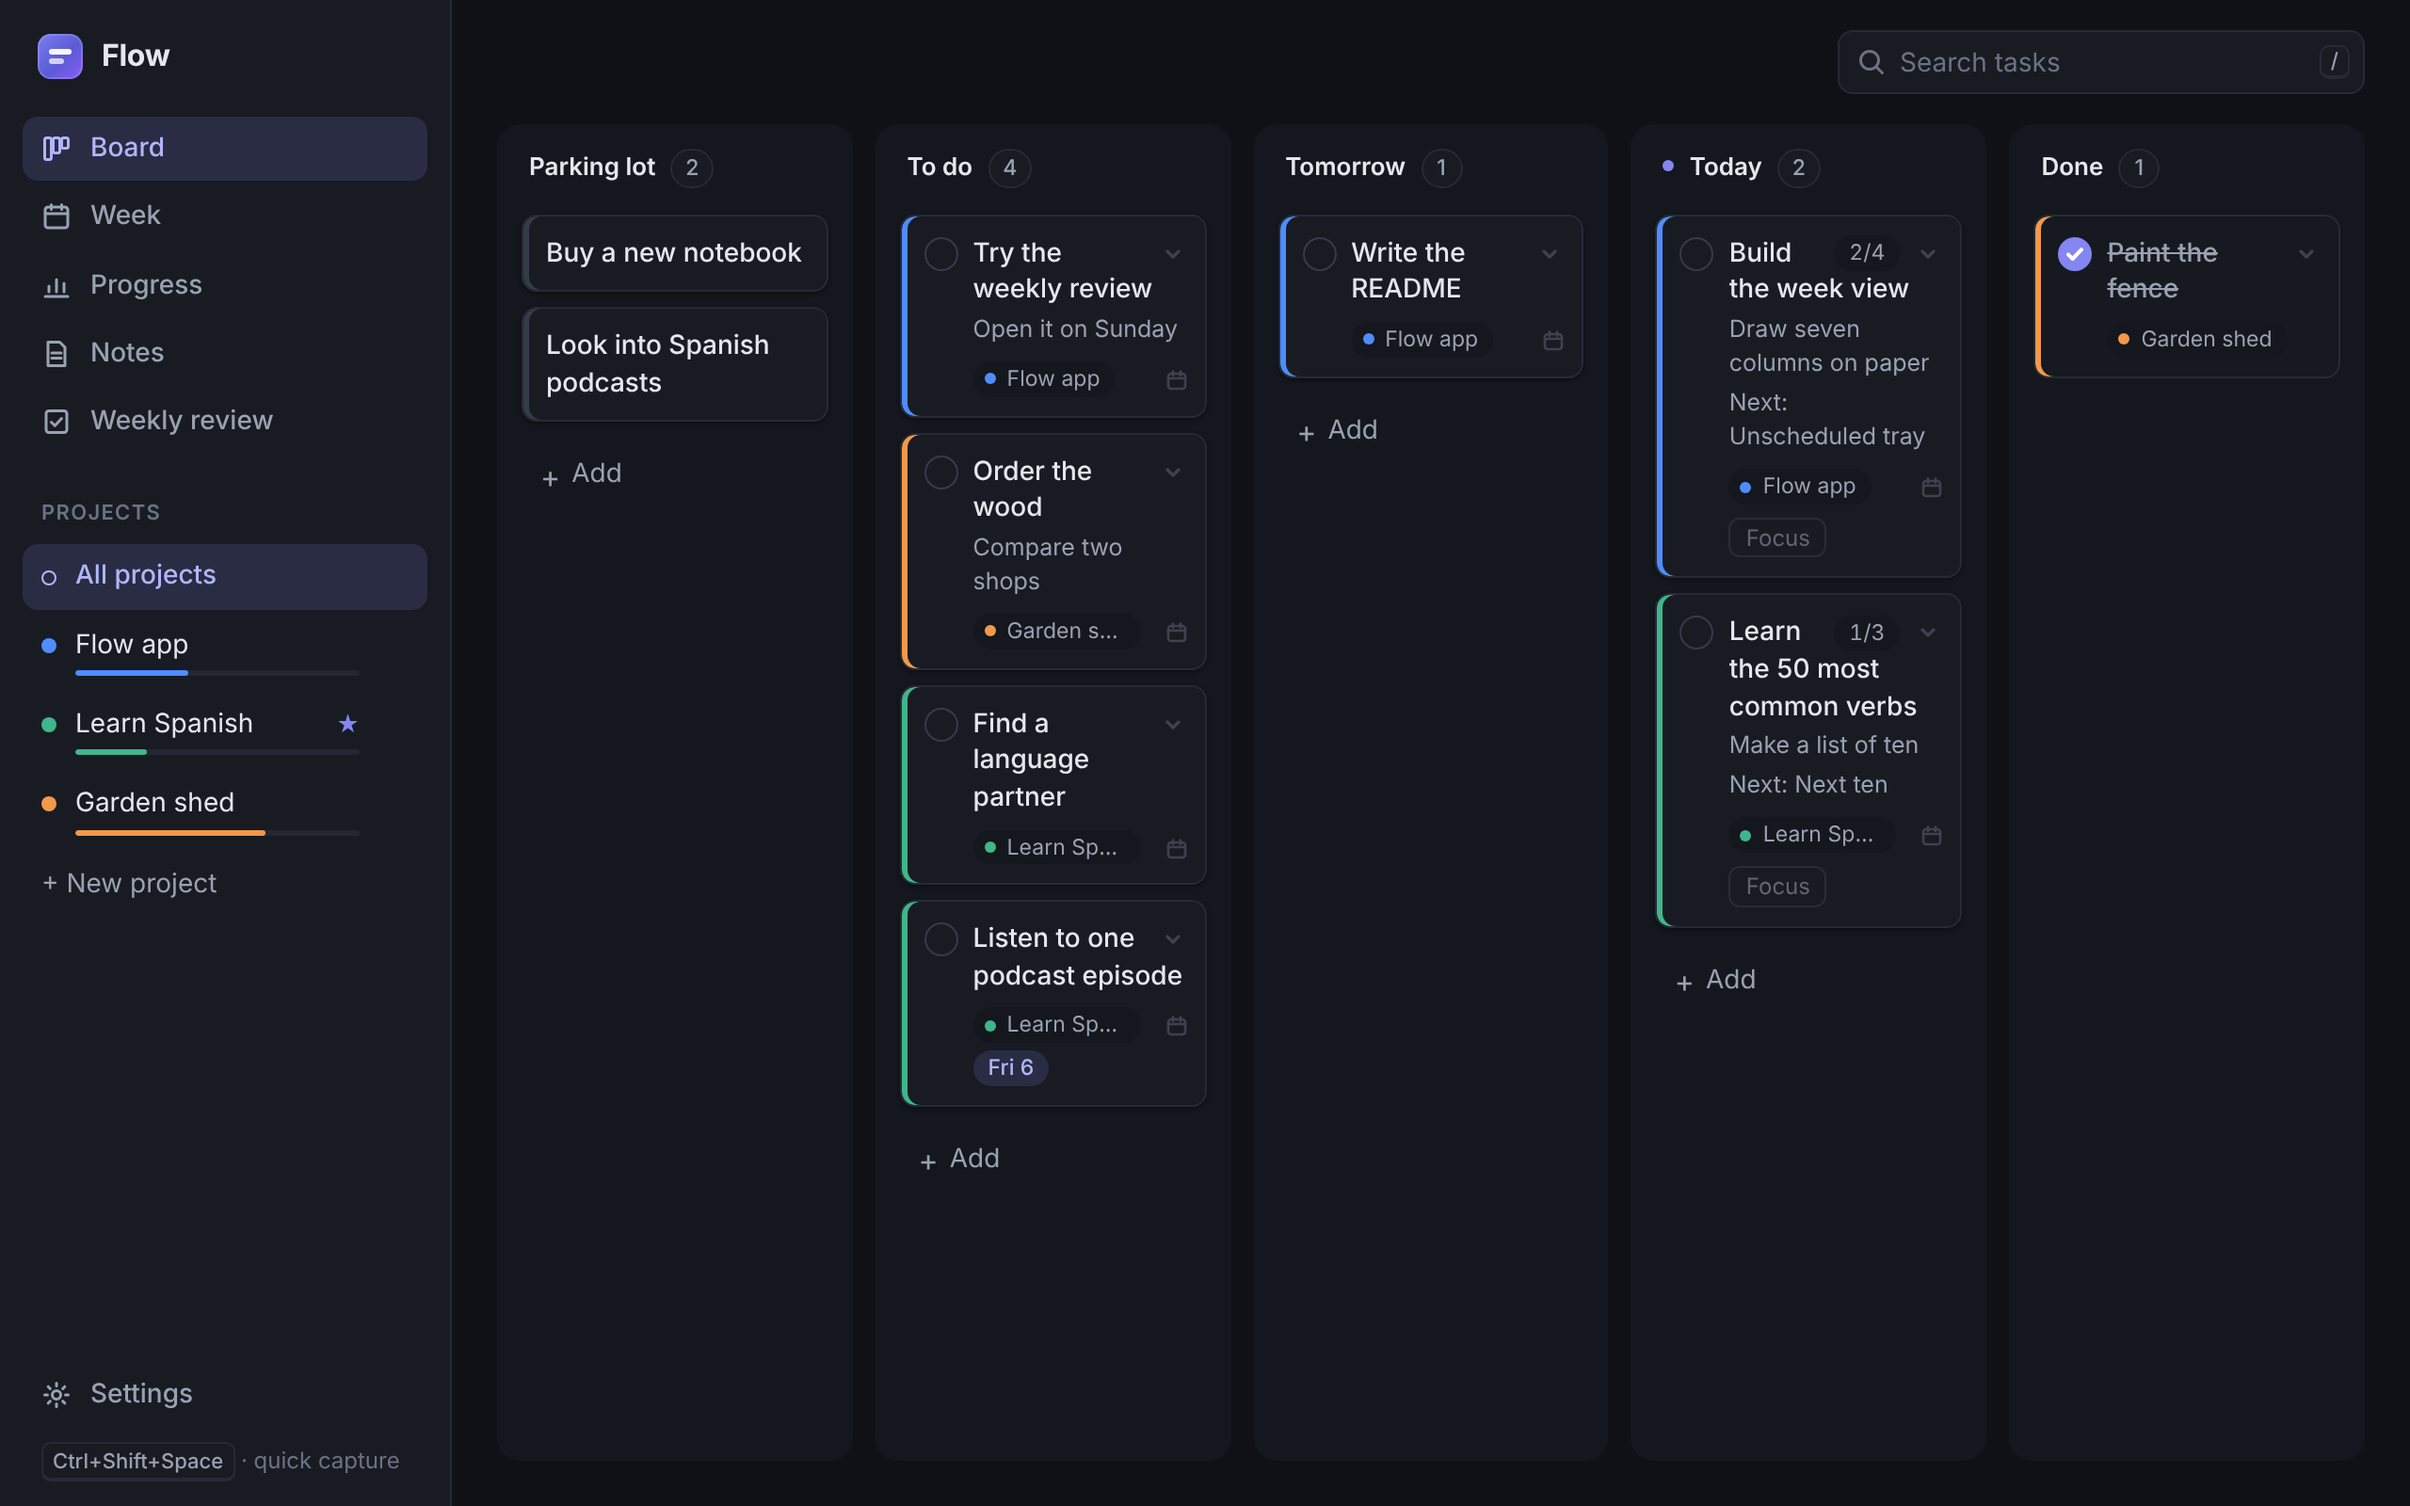
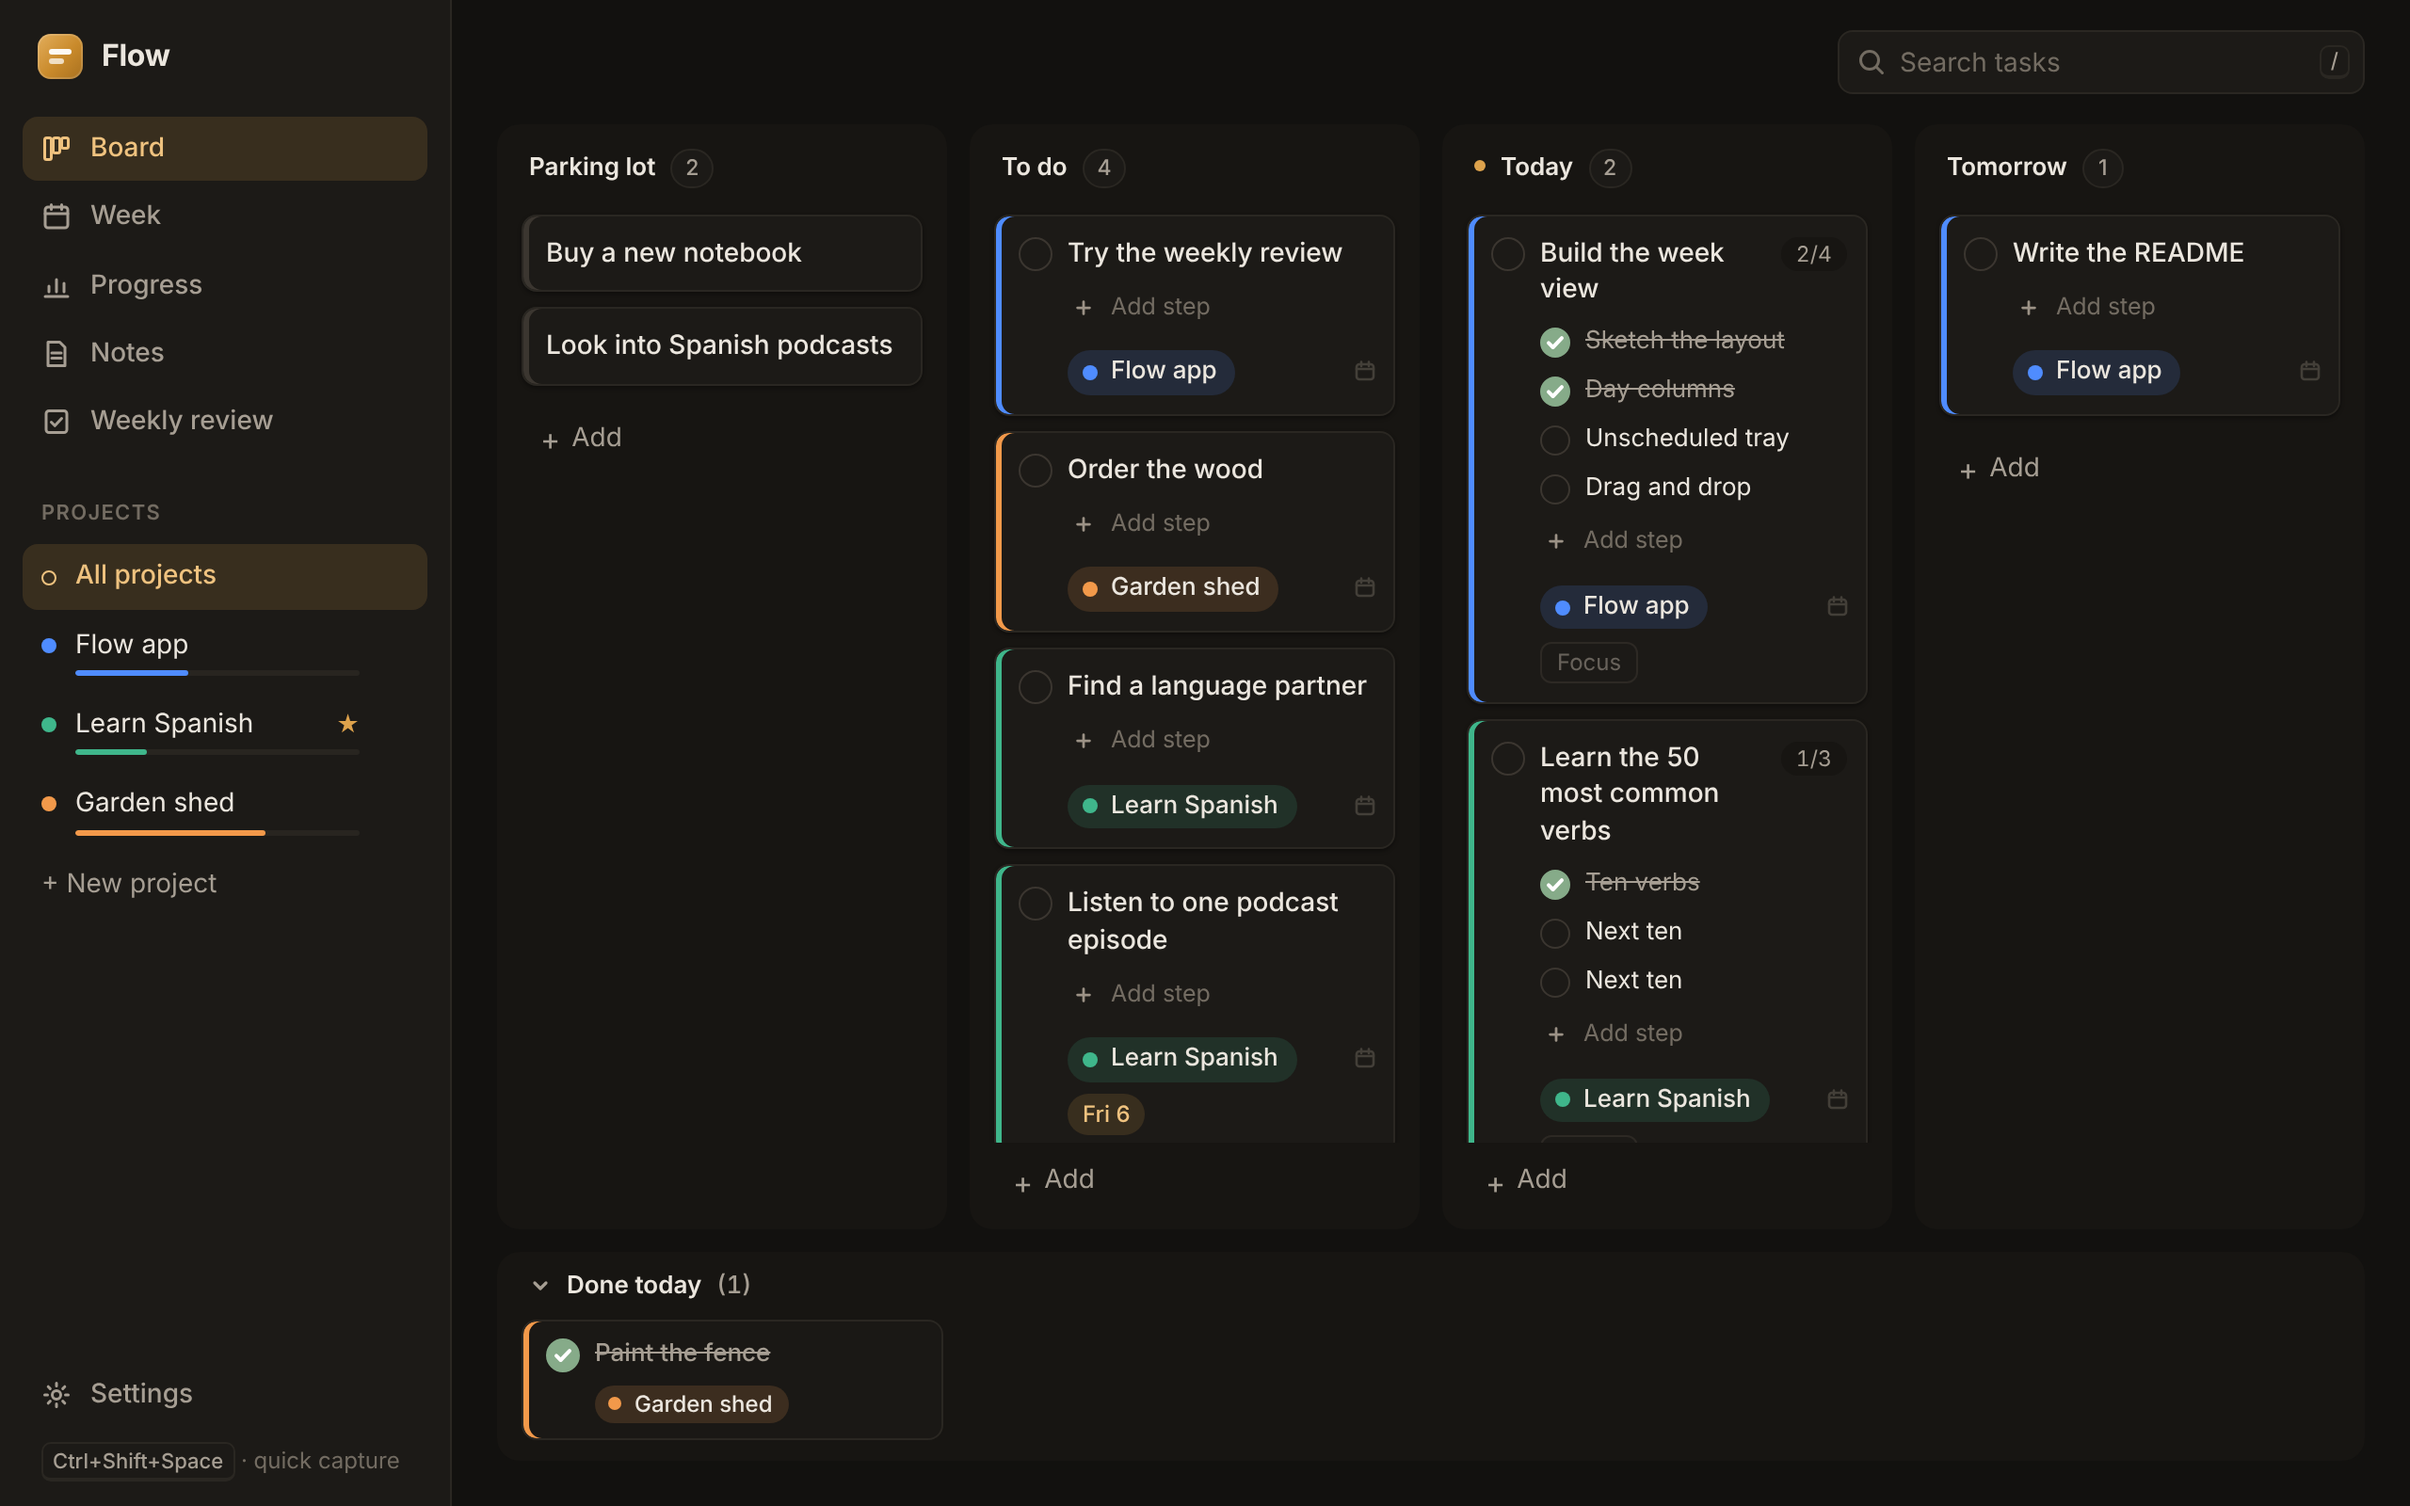
Flow v0.2.6: version, smoke test, screenshots and docs
Claude-Session: https://claude.ai/code/session_01Voacjw55tMHdZutBvqAuuX

diff --git a/CLAUDE.md b/CLAUDE.md
@@ -1,6 +1,7 @@
 # Flow
 
-Tauri 2 + React + TypeScript desktop planner. One board: Parking lot / To do / Tomorrow / Today / Done.
+Tauri 2 + React + TypeScript desktop planner. One board: Parking lot | To do | Today | Tomorrow columns,
+with Done as a collapsible bar underneath (v0.2.6).
 Data is Markdown files with YAML frontmatter in a user-chosen folder. See
 `docs/superpowers/specs/2026-11-03-flow-design.md` for the design.
 
@@ -12,7 +13,8 @@ Data is Markdown files with YAML frontmatter in a user-chosen folder. See
 - `npm run app:dev` runs the desktop app via Tauri.
 - `node scripts/smoke.mjs` is a Playwright smoke test with real pointer drag-and-drop
   across Board, Week, Progress, Notes, Review, Settings (needs `npm run dev` running; writes
-  `docs/screenshot*.png`: board, dark, progress, week). jsdom cannot drive dnd-kit.
+  `docs/screenshot*.png`: board, dark, progress, week). jsdom cannot drive dnd-kit. Board cards are
+  dragged by their title row (the always-open checklist keeps its own pointer events).
 
 ## Structure
 
@@ -31,7 +33,8 @@ Data is Markdown files with YAML frontmatter in a user-chosen folder. See
   (`prompts.ts`) and the dev-only canned client (`fake.ts`).
 - `src/ui/` React components (Board, Column, Card, quick capture, folder setup) and `useFlow`.
   Board.tsx is the shell; views: `BoardView`, `WeekView`, `ProgressView`, `NotesView`,
-  `WeeklyReview`, `SettingsPanel`; plus `Sidebar`, `ProjectHeader`, `NotesPanel`, `PlanMenu` (calendar
+  `WeeklyReview`, `SettingsPanel`; plus `DoneBar` (Done under the columns), `useStoredFlag` (boolean
+  local settings), `Sidebar`, `ProjectHeader`, `NotesPanel`, `PlanMenu` (calendar
   menu on To do/Tomorrow/Today cards: scheduleTask), `FocusBar` +
   `useFocus`, `SearchBox`, `AiPanel`; tokens and themes in `theme.css`, styles in `board.css`.
 - `src/shortcut.ts` idempotent global-shortcut registration (injected plugin functions).
@@ -40,6 +43,13 @@ Data is Markdown files with YAML frontmatter in a user-chosen folder. See
 
 ## Rules
 
+- v0.2.6 board: `COLUMNS` order is inbox, todo, today, tomorrow, done; `done` renders as the
+  `DoneBar` (region "Done", heading/toggle "Done today (N)", aria-expanded), a drop target open or
+  closed; open shows compact done cards (checkbox, title, pill, tag; no checklist).
+- v0.2.6 cards: no chevron, no "Next:" line, no first-step line; a task card always shows its
+  checklist between the title row (title + `n/m` pill) and the footer (project tag tinted ~15% with
+  a dot, day chip, calendar). Light theme: warm paper/linen, amber accent (`--accent`, darker
+  `--accent-strong` for filled buttons, `--accent-text`), sage `--success*` for done/checks/heatmap.
 - Never write a file that failed to parse; it is skipped and recorded in `Flow/flow-issues.log`.
 - No warnings, nags or pop-ups in the UI; problems go only to the issue log. One owner exception:
   deleting a project asks first in an in-app dialog (`DeleteDialog` in Sidebar.tsx: alertdialog,
@@ -50,6 +60,9 @@ Data is Markdown files with YAML frontmatter in a user-chosen folder. See
 - Browser dev (`npm run dev`) uses `MemoryFileStore` seeded with example data; nothing persists.
 - Day `focus` list: entries `ref, title, project, minutes`; omitted when empty; sessions under
   1 minute are not logged; each session is logged once. Timer state is in memory only.
+- `first_step` is kept in files but never shown on cards; the edit form offers "First step" only for
+  a task that already has one (so it can be cleared). Claude's suggested first step is added as the
+  new task's first checklist step, not as `first_step`.
 - Task `steps: [{text, done}]` and `scheduled: YYYY-MM-DD` are omitted when empty; unknown fields
   on steps are preserved. Ticking the last step never completes the task.
 - Step reorder: only the step's grip handle starts a drag, in a nested DndContext inside the
@@ -90,5 +103,8 @@ Data is Markdown files with YAML frontmatter in a user-chosen folder. See
   `registerShortcut` (`src/shortcut.ts`): unregister first, then register, serialized. Failures go
   only to the issue log; Settings shows one muted status line (none in the browser).
 - `hiddenColumns` (array of ColumnId) in local app settings hides board columns; never all five,
-  never in the Flow folder. Hidden columns' data and promotion are unchanged.
+  never in the Flow folder. Hidden columns' data and promotion are unchanged. Hiding `done` hides
+  the Done bar.
+- `doneBarOpen` and `weekTrayOpen` (booleans, default true) in local app settings remember whether
+  the Done bar and the Week view's Unscheduled drawer (full width, above the days) are open.
 - Browser seed data in `src/main.tsx` is generated relative to today's local date.

diff --git a/README.md b/README.md
@@ -9,10 +9,11 @@ of the Claude buttons (see below).
 
 ## What you can do
 
-- **Board.** Five columns: **Parking lot** (loose thoughts), **To do**, **Tomorrow**, **Today**
-  and **Done**. Drag cards between columns and tick them off. Drop a task on the Parking lot to
-  park it (its first step, steps and planned day are kept in the note). Tasks in Tomorrow move to
-  Today by themselves the next morning.
+- **Board.** Four columns: **Parking lot** (loose thoughts), **To do**, **Today** and
+  **Tomorrow**, with a **Done today** bar underneath. Drag cards between columns and tick them off;
+  drop a card on the Done bar to finish it. The bar folds down to one thin line when you want the
+  room. Drop a task on the Parking lot to park it (its steps and planned day are kept in the note).
+  Tasks in Tomorrow move to Today by themselves the next morning.
 - **Plan a task in two clicks.** The small calendar button on a card offers Today, Tomorrow, the
   next few days, next week or any date. A new task can get a "Plan for" date right away.
 - **Focus on one project.** Click a project in the sidebar to see only its cards, with its goal,
@@ -22,10 +23,11 @@ of the Claude buttons (see below).
 - **Focus timer.** Press **Focus** on a Today card to start a quiet 15, 25 or 45 minute timer.
   When it ends, nothing pops up; the bar at the top just offers "Mark done" or "Another round".
   Finished sessions are logged so you can see your focus time.
-- **Checklists.** Break a task into steps. The card shows `2/5` and the next step to do.
-  Drag a step by its grip to reorder it (or focus the grip and press Alt+Up / Alt+Down).
-- **Plan your week.** The **Week** view has seven day columns and an Unscheduled tray. Drag a
-  task onto a day. When that day comes, the task moves to Today by itself.
+- **Checklists.** Break a task into steps, right on the card: its steps are always visible, with a
+  small "Add step" line and `2/5` next to the title. Drag a step by its grip to reorder it (or
+  focus the grip and press Alt+Up / Alt+Down).
+- **Plan your week.** The **Week** view has an Unscheduled drawer across the top (it folds away)
+  and seven day columns under it. Drag a task onto a day. When that day comes, the task moves to Today by itself.
   You can move any task freely, Today tasks too; dropping one on a past day marks it done that day.
 - **Weekly review.** A short guided review: what you finished, what is unfinished (keep, push to
   next week, send back or delete), a project to focus on next week, and a few words of reflection.
@@ -77,9 +79,10 @@ a key you can still press **Copy AI review** and paste the text into any AI your
 
 ## Settings
 
-- **Board columns:** tick the columns you want on the board (Parking lot, To do, Tomorrow, Today,
-  Done). Hidden columns keep their cards; the others share the width. One column always stays.
-  The choice is kept in Flow's own settings on this computer, not in your Flow folder.
+- **Board columns:** tick the columns you want on the board (Parking lot, To do, Today, Tomorrow,
+  Done — unticking Done hides the Done bar). Hidden columns keep their cards; the others share the
+  width. One always stays. The choice, and whether the Done bar and the Week view's Unscheduled
+  drawer are open, is kept in Flow's own settings on this computer, not in your Flow folder.
 - **Quick capture:** in the desktop app, Settings shows whether Ctrl+Shift+Space is working. If
   another app already uses that shortcut, it says so there (details in `flow-issues.log`).
 

diff --git a/docs/superpowers/specs/2026-11-04-flow-v0.2-design.md b/docs/superpowers/specs/2026-11-04-flow-v0.2-design.md
@@ -132,7 +132,7 @@ right-side panel: a textarea with the project notes (body; saved on blur or Save
 - A task can hold **steps**: `steps: [{text, done}]` in the project file (omitted when empty;
   unknown fields on steps preserved).
 - Card shows a small `2/5` pill when steps exist, and the first unchecked step as a muted
-  "Next: …" line. A chevron expands the card into the checklist: checkboxes, inline "Add step"
+  "Next: …" line (v0.2.6: see §6 — always open, no "Next:" line). A chevron expands the card into the checklist: checkboxes, inline "Add step"
   input (Enter adds, stays open for the next), delete ×, and edit by clicking the text.
 - The focus bar shows the task's next unchecked step under the title.
 - Ticking the last step does not complete the task automatically (no surprises); the task
@@ -212,3 +212,21 @@ right-side panel: a textarea with the project notes (body; saved on blur or Save
 
 Model functions unit-tested; UI behaviors tested with RTL + MemoryFileStore; focus timer with
 fake timers; smoke test updated (Board and Progress screenshots, light and dark).
+
+## 6. v0.2.6 changes (owner UI pass)
+
+- **Light theme:** warm paper `#FCF9F3`, surfaces `#FFFDF8`, column panels linen `#F4EEE3`,
+  charcoal text `#2F2A25`, muted `#6E655B`; amber accent `#C98A2B` (darker `#9A6516` fills buttons,
+  `#875A14` for amber text, ≥ 4.5:1); sage `#7C9A7E` for done ticks, the heatmap and success.
+  Dark mode keeps its layout, with slightly warm neutrals and the same amber/sage.
+- **Board:** Parking lot | To do | Today | Tomorrow. Done is a full-width bar under them:
+  "Done today (N)" and a toggle (local setting `doneBarOpen`, default open); open, it lists today's
+  done cards as compact cards in one horizontally scrolling row. Open or closed it is a drop target
+  (drop = complete). The "Done" column setting hides the bar.
+- **Cards:** no chevron, no "Next:" line, no first-step line. A task card always shows its
+  checklist (grips, checkboxes, a compact "Add step" line) between the title (with its `2/5` pill)
+  and the footer (bigger project tag tinted with the project colour, day chip, calendar button).
+  `first_step` stays in the files; the edit form shows it only for tasks that still have one.
+  Claude's "Plan tomorrow" first step becomes the new task's first checklist step.
+- **Week:** the Unscheduled tray is a full-width drawer above the seven days (one horizontally
+  scrolling row; local setting `weekTrayOpen`, default open), still the `unscheduled` drop target.
